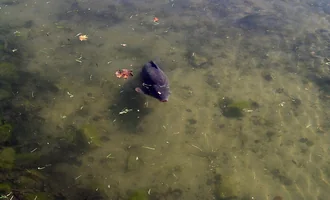
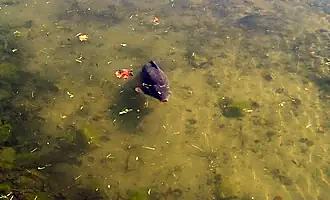
fix: peces nunca cortados - object-fit:contain + fondo marino
Problema: trio tenca/perca/brema en grid 3-columnas forzaba
aspect-ratio vertical (~110x200) y object-fit:cover recortaba
el pez verticalmente. Carpa tambien se veia alterada por colores.

Solucion:
- .trio-img altura fija 130px (90px movil) con contain
- .fish-img global cambiada a object-fit:contain con fondo marino
  radial-gradient azul profundo (#143355 -> #050f1f)
- padding 6px para dejar aire alrededor del pez
- Carpa mejorada con enhance brillo/saturacion y reduccion canal azul
- sizes atributo actualizado en trio para cargar version -m

Resultado: peces completos SIEMPRE visibles, fondo elegante tipo
acuario profundo unificado, no importa ratio del contenedor

diff --git a/index.html b/index.html
@@ -111,7 +111,13 @@
 @keyframes raysDrift{0%{transform:translateX(-5%) skewX(-2deg);opacity:.4}100%{transform:translateX(5%) skewX(2deg);opacity:.7}}
 .hero-content{position:relative;z-index:2}
 @media (max-width:768px){.hero-fish-swim.f2,.hero-fish-swim.f4,.hero-fish-swim.f5,.hero-fish-swim.f7{display:none}.hero-bubbles b:nth-child(n+8){display:none}.hero-particles i:nth-child(n+5){display:none}.hero-caustics{animation-duration:30s}}
-@media (prefers-reduced-motion:reduce){.hero-bg-scene::before,.hero-bg-scene::after,.hero-caustics,.hero-wave-path,.hero-fish-swim,.hero-fish-swim .body,.hero-fish-swim .tail,.hero-bubbles b,.hero-particles i,.hero-rays{animation:none}}</style>
+@media (prefers-reduced-motion:reduce){.hero-bg-scene::before,.hero-bg-scene::after,.hero-caustics,.hero-wave-path,.hero-fish-swim,.hero-fish-swim .body,.hero-fish-swim .tail,.hero-bubbles b,.hero-particles i,.hero-rays{animation:none}}
+/* Trío tenca/perca/brema: object-fit:contain con fondo para NO cortar peces */
+.trio-img{height:130px !important;object-fit:contain !important;background:radial-gradient(ellipse at center,#0e2844 0%,#061020 100%) !important;padding:4px}
+@media (max-width:640px){.trio-img{height:90px !important}}
+/* Todas las fish-img: contain con fondo marino - jamás cortar peces */
+.fish-img{object-fit:contain !important;background:radial-gradient(ellipse 100% 80% at 50% 40%,#143355 0%,#0a1e3a 55%,#050f1f 100%) !important;padding:6px}
+.fish-img[alt="Tenca"],.fish-img[alt="Perca"],.fish-img[alt="Brema"]{padding:4px}</style>
 </head>
 <body>
 
@@ -576,10 +582,10 @@
 
       <!-- TENCA / PERCA / BREMA -->
       <div class="card">
-        <div style="display:grid;grid-template-columns:repeat(3,1fr);gap:.5rem;margin-bottom:1rem">
-          <img class="fish-img" src="img/tenca.webp" srcset="img/tenca-m.webp 165w, img/tenca.webp 330w" sizes="(max-width: 640px) 165px, 330px" alt="Tenca" width="330" height="200" loading="lazy" decoding="async"/>
-          <img class="fish-img" src="img/perca.webp" srcset="img/perca-m.webp 165w, img/perca.webp 330w" sizes="(max-width: 640px) 165px, 330px" alt="Perca" width="330" height="200" loading="lazy" decoding="async"/>
-          <img class="fish-img" src="img/brema.webp" srcset="img/brema-m.webp 165w, img/brema.webp 330w" sizes="(max-width: 640px) 165px, 330px" alt="Brema" width="330" height="200" loading="lazy" decoding="async"/>
+        <div class="trio-grid" style="display:grid;grid-template-columns:repeat(3,1fr);gap:.5rem;margin-bottom:1rem">
+          <img class="fish-img trio-img" src="img/tenca.webp" srcset="img/tenca-m.webp 165w, img/tenca.webp 330w" sizes="(max-width: 640px) 110px, 165px" alt="Tenca" width="330" height="200" loading="lazy" decoding="async"/>
+          <img class="fish-img trio-img" src="img/perca.webp" srcset="img/perca-m.webp 165w, img/perca.webp 330w" sizes="(max-width: 640px) 110px, 165px" alt="Perca" width="330" height="200" loading="lazy" decoding="async"/>
+          <img class="fish-img trio-img" src="img/brema.webp" srcset="img/brema-m.webp 165w, img/brema.webp 330w" sizes="(max-width: 640px) 110px, 165px" alt="Brema" width="330" height="200" loading="lazy" decoding="async"/>
         </div>
         <div style="display:grid;gap:1rem">
           <div>
